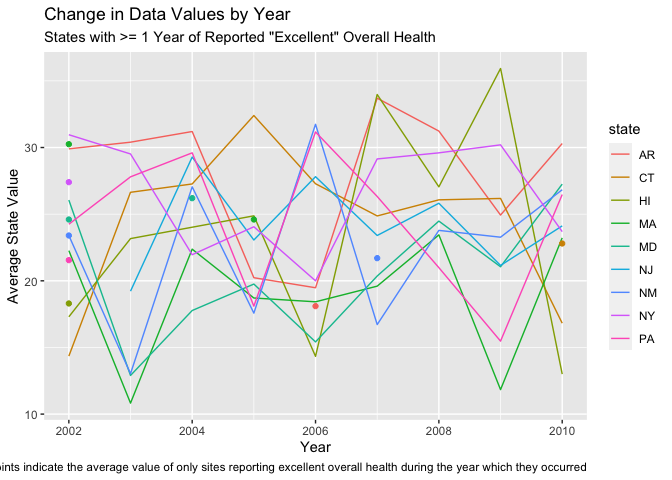
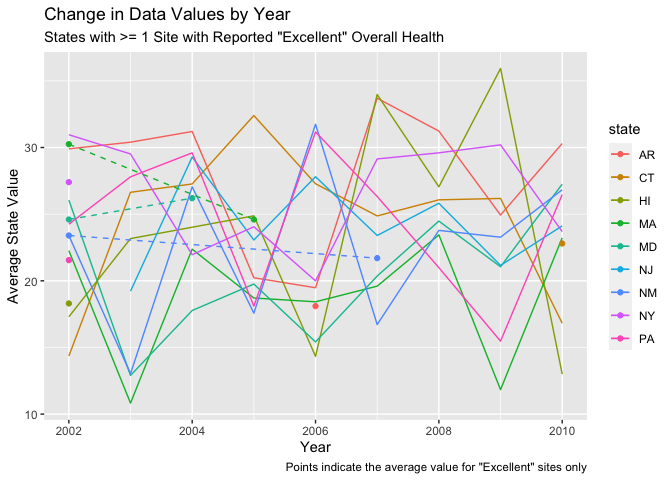
Finished problem 2

diff --git a/p8105_hw3_lr2854.md b/p8105_hw3_lr2854.md
@@ -281,13 +281,13 @@ brfss %>%
   summarize(avg_data_value = mean(data_value)) %>%
   ggplot(aes(x = year, y = avg_data_value)) +
   geom_line(aes(group = state, color = state)) +
-  geom_point(data = brfss_excellent, aes(x = year, y = avg_data_value, group = state, color = state), show.legend = FALSE) +
+  geom_point(data = brfss_excellent, aes(x = year, y = avg_data_value, group = state, color = state)) + geom_line(data = brfss_excellent, linetype= "dashed", aes(x = year, y = avg_data_value, group = state, color = state)) +
   labs(
     title = "Change in Data Values by Year ", 
-    subtitle = "States with >= 1 Year of Reported \"Excellent\" Overall Health",
+    subtitle = "States with >= 1 Site with Reported \"Excellent\" Overall Health",
     y = "Average State Value",
     x = "Year",
-    caption = "Points indicate the average value of only sites reporting excellent overall health during the year which they occurred"
+    caption = "Points indicate the average value for \"Excellent\" sites only"
   )
 ## `summarise()` has grouped output by 'year'. You can override using the `.groups` argument.
 ```
@@ -296,4 +296,49 @@ brfss %>%
 
 -   **Make a two-panel plot showing, for the years 2006, and 2010,
     distribution of data\_value for responses (“Poor” to “Excellent”)
-    among locations in NY State.**
+    among locations in NY State.** There were only responses of “Poor”
+    and “Good”, so those are plotted.
+
+``` r
+brfss_ny = brfss %>% 
+  filter(state == "NY" & year %in% c(2006,2010)) %>%
+  group_by(year,response)
+
+
+brfss_ny
+## # A tibble: 14 × 23
+## # Groups:   year, response [4]
+##     year state county   class  topic  question   response sample_size data_value
+##    <int> <chr> <chr>    <chr>  <chr>  <chr>      <ord>          <int>      <dbl>
+##  1  2010 NY    NY - Br… Healt… Overa… How is yo… Good             151       35.1
+##  2  2010 NY    NY - Er… Healt… Overa… How is yo… Good             154       29.6
+##  3  2010 NY    NY - Ki… Healt… Overa… How is yo… Good             294       30.6
+##  4  2010 NY    NY - Mo… Healt… Overa… How is yo… Good             116       30  
+##  5  2010 NY    NY - Na… Healt… Overa… How is yo… Poor              14        2.3
+##  6  2010 NY    NY - Ne… Healt… Overa… How is yo… Good             255       21.4
+##  7  2010 NY    NY - Qu… Healt… Overa… How is yo… Good             284       32.4
+##  8  2010 NY    NY - Su… Healt… Overa… How is yo… Good             191       29.6
+##  9  2010 NY    NY - We… Healt… Overa… How is yo… Poor              12        2.2
+## 10  2006 NY    NY - Ki… Healt… Overa… How is yo… Poor              26        3.3
+## 11  2006 NY    NY - Na… Healt… Overa… How is yo… Poor              14        3.5
+## 12  2006 NY    NY - Qu… Healt… Overa… How is yo… Good             144       36.6
+## 13  2006 NY    NY - Su… Healt… Overa… How is yo… Good             100       30.3
+## 14  2006 NY    NY - We… Healt… Overa… How is yo… Good              73       26.3
+## # … with 14 more variables: confidence_limit_low <dbl>,
+## #   confidence_limit_high <dbl>, display_order <int>, data_value_unit <chr>,
+## #   data_value_type <chr>, data_value_footnote_symbol <chr>,
+## #   data_value_footnote <chr>, data_source <chr>, class_id <chr>,
+## #   topic_id <chr>, location_id <chr>, question_id <chr>, respid <chr>,
+## #   geo_location <chr>
+ggplot(data = brfss_ny, aes(x = response, y = data_value)) +
+  geom_point(aes(group = response, color = response)) + 
+  facet_grid(. ~ year) +
+  labs(
+    title = "Distribution of Responses in NY between 2006 and 2010",
+    y = "Value",
+    x = "Response",
+    caption = "(Only 2 of 5 possible response categories were reported)"
+  )
+```
+
+![](p8105_hw3_lr2854_files/figure-gfm/brfss_NY-1.png)<!-- -->
